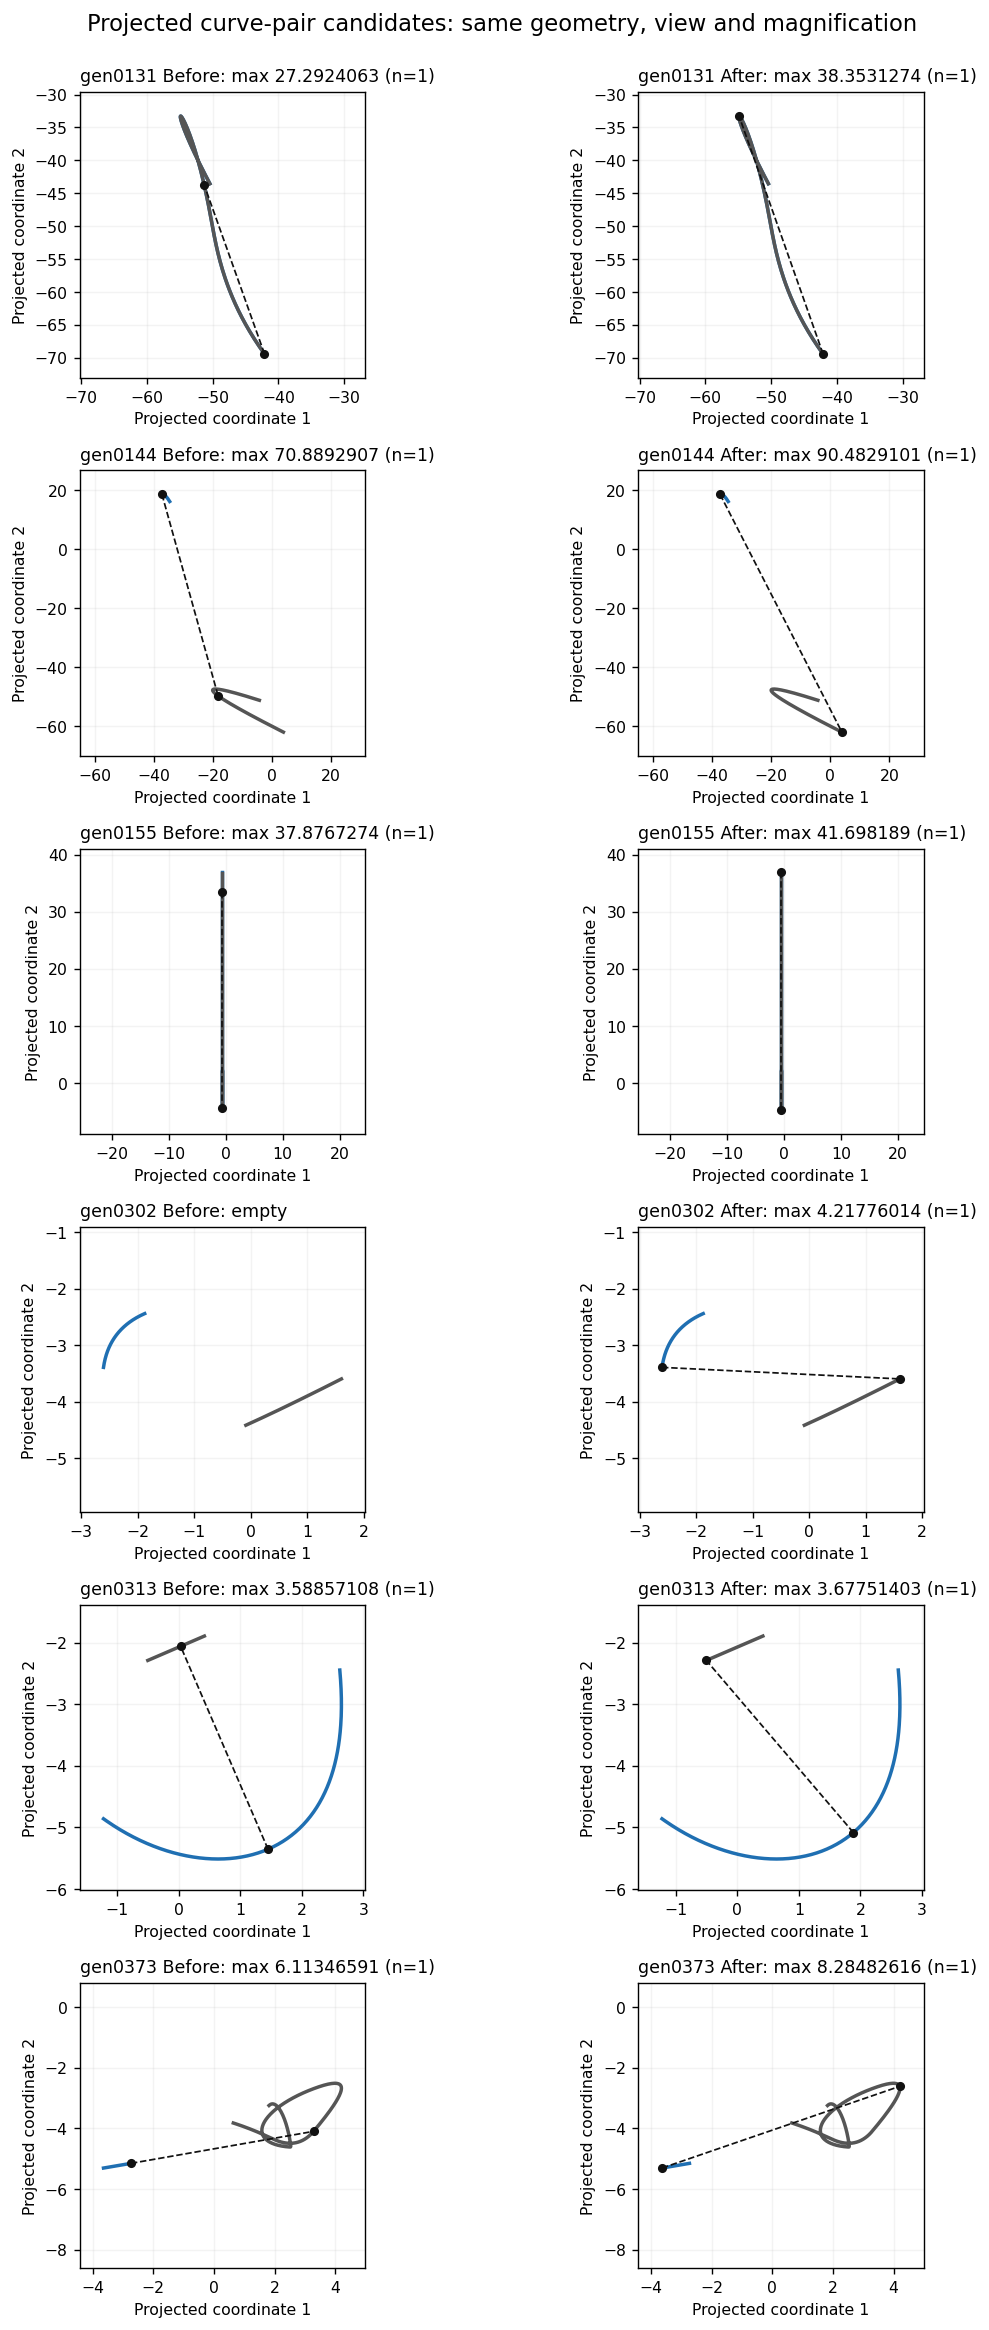
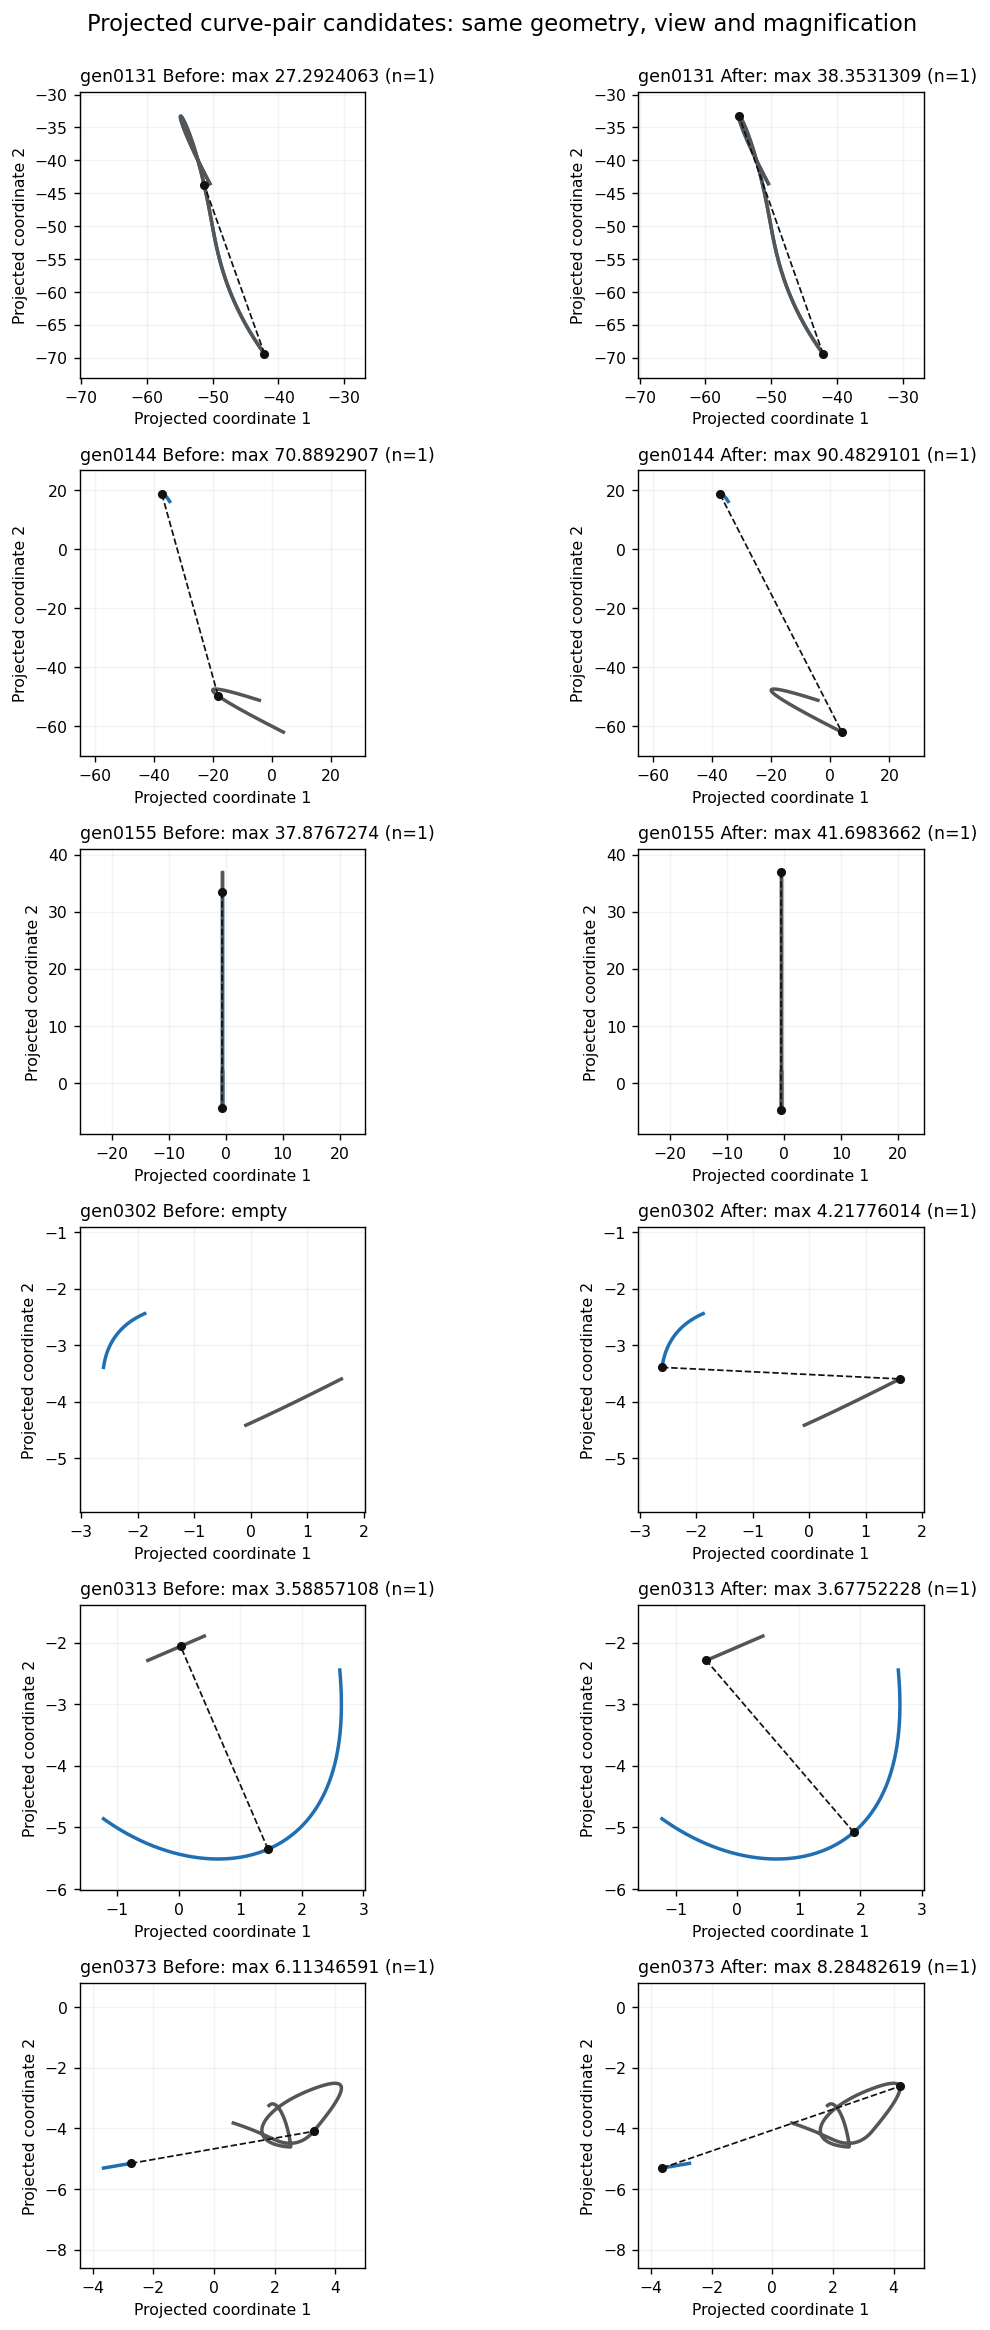
test: refresh strict projected pair audit and geometry evidence

diff --git a/plan/findings/diagnostics/check_projected_pair_rust_witnesses_3060.rs b/plan/findings/diagnostics/check_projected_pair_rust_witnesses_3060.rs
@@ -210,11 +210,30 @@ fn solve_case(row: &Value) -> Result<Value> {
         &opts,
         requested,
     ) {
-        Ok(solutions) => Ok(
-            json!({"case":row["case"],"solutions":solutions.as_slice().iter().map(|s|
-            json!({"parameters":[s.start.parameters[0],s.start.parameters[1]],"value":s.start.solution_value})
-        ).collect::<Vec<_>>()}),
-        ),
+        Ok(solutions) => {
+            let requested_domains = [interval(&i["ivl1"])?, interval(&i["ivl2"])?];
+            let natural = [a.natural_interval(), b.natural_interval()];
+            let domains = requested_domains
+                .into_iter()
+                .zip(natural)
+                .map(|(r, n)| [r.min().max(n.min()), r.max().min(n.max())])
+                .collect::<Vec<_>>();
+            let mut checked = Vec::new();
+            for solution in solutions.as_slice() {
+                let parameters = [solution.start.param(0)?, solution.start.param(1)?];
+                let delta =
+                    a.evaluate_point(&k, parameters[0])? - b.evaluate_point(&k, parameters[1])?;
+                let measured = normal[0].cross(delta).cross(normal[0]).length();
+                let admissible = parameters
+                    .iter()
+                    .zip(&domains)
+                    .all(|(p, d)| d[0] <= *p && *p <= d[1]);
+                checked.push(json!({"parameters":parameters,"value":solution.start.solution_value,
+                    "native_measured":measured,"scalar_error":measured-solution.start.solution_value,
+                    "admissible":admissible}));
+            }
+            Ok(json!({"case":row["case"],"admissible_domains":domains,"solutions":checked}))
+        }
         Err(error) => Ok(json!({"case":row["case"],"solver_error":format!("{error:?}")})),
     }
 }

diff --git a/plan/findings/curve.curve_p9--frozen-pair-audit-3060.md b/plan/findings/curve.curve_p9--frozen-pair-audit-3060.md
@@ -1,4 +1,4 @@
-# Frozen projected-pair audit at ab5107e26 and 8948e0bc2
+# Frozen projected-pair audit: strict Single construction at 46bd74511
 
 This record audits the scoped Single and finite affine All construction. It does not claim to close #3060. Baseline is the parent implementation; all inputs are frozen and replayed unchanged. No tolerance, expected output or exclusion is changed by this evidence commit.
 
@@ -6,44 +6,61 @@ This record audits the scoped Single and finite affine All construction. It does
 
 All 31 generated Single projected maximum requests among the 3,000 seeds, plus four cylinder fixtures, were replayed. There are 31 changed outputs, no new refusals and no decode errors. The three empty natural-domain intersections (gen2506, gen2915, gen2993) and the incumbent-filtered gen0717 remain unchanged. The OOB-enabled gen2915 result preserves existing cache-domain clipping; it does not certify extrapolation outside the natural interval.
 
-**Historical checkpoint, superseded for Single accuracy by 5c66fb436.** The tables
-and figures below preserve the ab5107/8948 audit for traceability; these Single
-outputs are not approved golden updates. A fresh strict-construction replay is
-pending. The independent All corner/monotonicity proofs are separate.
+The after data and figures now use the strict construction at `46bd74511`.
+The global objective upper bound fits the returned point's own independently
+computed arithmetic enclosure; its reported scalar lies inside that same
+interval. Caller retention slack and other point widths do not loosen this
+certificate. This follows the [maintainer contract](https://github.com/tangency-labs/solidcore/pull/2840#discussion_r4496188362).
 
-Every returned pair in this historical checkpoint is admissible, and independent native line/Hermite/homogeneous-rational evaluation agrees with the reported scalar within 7.11e-15. Independent grid/optimization search found no larger witness beyond caller slack; that search is a diagnostic, **not a completeness proof**. The old production invariant bounded the remaining geometric gap by retention slack; that does not meet the maintainer's solve-accuracy contract. Four cylinder maxima equal sqrt(2.5) and their returned parameters independently attain it.
+All returned parameters are admissible. Independent native line/Hermite/rational
+evaluation agrees with each reported scalar within 7.11e-15. Independent
+optimization's largest positive excess over an answer is 2.85e-14; those signed
+differences are shown below, not treated as an accuracy tolerance or proof.
+Completeness comes from the production interval invariant. Four cylinder maxima
+equal sqrt(2.5), independently attained by their returned endpoint parameters.
 
-Fourteen historical Single rows have independently found improvements inside caller slack. Those coarse candidates must not be blessed: retention slack does not authorize optimization error. The largest found gap is approximately 0.001340204 in gen1658, whose slack is 0.5. The strict correction removes slack from construction and requires the global bound to fit the returned point's own arithmetic enclosure, following the [maintainer contract](https://github.com/tangency-labs/solidcore/pull/2840#discussion_r4496188362).
+The superseded ab5107 Single checkpoint allowed geometric error inside retention
+slack and must not be blessed. In particular its gen1658 value 8.000523649275099
+is replaced by 8.001863852854438 at
+(0.36164915060065483, 0.06248865022830497). The independent witness is
+8.00186385285444, a difference of 1.78e-15, instead of the old 0.001340204 gap.
 
-| Case | Before values (status) | After values | Slack | Largest independently found improvement |
+The first strict checkpoint exposed 19 subdivision-depth refusals. Keeping
+proved endpoint contractions in the search state and allowing 128 total
+bisections for two coordinates removed all 19, without changing the strict
+acceptance rule or the 32,768-box work cap. All 31 focused tests pass at 46bd74511,
+including identical answers for zero and large retention on an interior peak.
+The later final-All retention guard has its own separate validation checkpoint.
+
+| Case | Before values (status) | Strict after values | Retention slack | Independent search minus answer |
 |---|---|---|---|---|
-| gen0131 | 27.292406300295426 ([0]) | 38.353127377015475 | 0.01 | 3.499643547e-06 |
+| gen0131 | 27.292406300295426 ([0]) | 38.353130876659016 | 0.01 | 7.1054e-15 |
 | gen0144 | 70.88929067495704 ([0]) | 90.48291006330427 | 0.5 | 0 |
-| gen0155 | 37.87672736773793 ([0]) | 41.698189029504405 | 0.01 | 0.000177133632 |
+| gen0155 | 37.87672736773793 ([0]) | 41.69836616313635 | 0.01 | 1.4211e-14 |
 | gen0302 | empty ([0]) | 4.217760138079574 | 0.0001 | 0 |
-| gen0313 | 3.5885710823184898 ([0]) | 3.677514032092783 | 0.001 | 8.248222469e-06 |
-| gen0373 | 6.113465906772089 ([0]) | 8.28482615770044 | 1e-06 | 3.31673693e-08 |
-| gen0421 | 17.11468532354081 ([0]) | 17.114615887656527 | 0.01 | 6.943588429e-05 |
+| gen0313 | 3.5885710823184898 ([0]) | 3.677522280315252 | 0.001 | -4.4409e-16 |
+| gen0373 | 6.113465906772089 ([0]) | 8.284826190867808 | 1e-06 | 1.7764e-15 |
+| gen0421 | 17.11468532354081 ([0]) | 17.11468532354081 | 0.01 | 3.5527e-15 |
 | gen0445 | 2.1774745915837537 ([0]) | 10.052741867014833 | 1e-06 | 0 |
-| gen0743 | 83.90388228273946 ([0]) | 87.12927007129669 | 0.0001 | 3.70933094e-07 |
+| gen0743 | 83.90388228273946 ([0]) | 87.12927044222975 | 0.0001 | 2.8422e-14 |
 | gen0844 | 0.0 ([0]) | 10.979584714079621 | 0.5 | 0 |
-| gen0880 | 10.50084800781891 ([0]) | 10.50084768493114 | 0.0001 | 3.228877699e-07 |
+| gen0880 | 10.50084800781891 ([0]) | 10.500848007818902 | 0.0001 | 7.1054e-15 |
 | gen1086 | 17.609097780432535 ([0]) | 73.99422438322947 | 0.01 | 0 |
-| gen1116 | 9.918860532286931 ([0]) | 10.39940044414268 | 0.0001 | 6.122036211e-11 |
-| gen1458 | 1.1799020931977433 ([0]) | 1.7703234057949422 | 0.5 | 9.969708975e-05 |
-| gen1658 | empty ([0]) | 8.000523649275099 | 0.5 | 0.001340203579 |
+| gen1116 | 9.918860532286931 ([0]) | 10.3994004442039 | 0.0001 | 0 |
+| gen1458 | 1.1799020931977433 ([0]) | 1.7704231028846957 | 0.5 | 4.4409e-16 |
+| gen1658 | empty ([0]) | 8.001863852854438 | 0.5 | 1.7764e-15 |
 | gen1744 | empty ([0]) | 9.878574576753216 | 0.5 | 0 |
 | gen2017 | 19.071210555301338 ([0]) | 21.504888840235413 | 0.5 | 0 |
-| gen2131 | 65.62255209558627 ([0]) | 94.33068553136792 | 1e-05 | 1.497642188e-08 |
+| gen2131 | 65.62255209558627 ([0]) | 94.33068554634433 | 1e-05 | 1.4211e-14 |
 | gen2189 | 0.09248840291760957 ([0]) | 4.5154998991468 | 0.0001 | 0 |
-| gen2325 | 0.8055899438915088 ([0]) | 0.9235167127270163 | 1e-05 | 1.380251979e-07 |
-| gen2440 | 2.44769534587924 ([0]) | 8.615017213813696 | 0.001 | 6.146905207e-11 |
-| gen2603 | empty ([0]) | 7.017259270988454 | 1e-05 | 4.864872718e-07 |
-| gen2768 | 6.160254511384329 ([0]) | 8.199193821009183 | 0.001 | 5.69599368e-06 |
+| gen2325 | 0.8055899438915088 ([0]) | 0.9235168507522138 | 1e-05 | 4.4409e-16 |
+| gen2440 | 2.44769534587924 ([0]) | 8.615017213875161 | 0.001 | 3.5527e-15 |
+| gen2603 | empty ([0]) | 7.017259757475725 | 1e-05 | 8.8818e-16 |
+| gen2768 | 6.160254511384329 ([0]) | 8.199199517002864 | 0.001 | 0 |
 | gen2771 | 12.110728525770247 ([0]) | 18.087676035977736 | 0.001 | 0 |
-| gen2962 | 82.52299106097162 ([0]) | 107.269468795851 | 0.01 | 1.303067592e-07 |
+| gen2962 | 82.52299106097162 ([0]) | 107.26946892615773 | 0.01 | 2.8422e-14 |
 | gen2969 | empty ([0]) | 55.95810876408308 | 1e-05 | 0 |
-| gen2976 | 5.583408252286654 ([0]) | 9.516387163386291 | 0.01 | 1.074340616e-11 |
+| gen2976 | 5.583408252286654 ([0]) | 9.516387163397034 | 0.01 | 0 |
 | analytic_face_cyl_x_6_15 | 0.5 (None) | 1.5811388300841898 | fixture | 0 |
 | analytic_face_cyl_x_7_15 | 0.5 (None) | 1.5811388300841898 | fixture | 0 |
 | analytic_face_halfcyl_x_6_15 | 0.5 (None) | 1.5811388300841898 | fixture | 0 |
@@ -71,8 +88,8 @@ The distinct offset-circle compatibility fixture remains unchanged: two seam par
 
 ## Integrated identical-monotone All case
 
-The final 75-row replay at `8948e0bc2` has eight changes and no new refusals or
-decode errors. The sole additional change is original All `gen1839`:
+The 75-row replay at `46bd74511` preserves the eight changes from `8948e0bc2` and has no new refusals or
+decode errors. The sole addition to the original affine class is original All `gen1839`:
 three old values at or below 4.243690092983992e-12 become one value
 4.408015599603469 at native parameters
 (0.43561427937496744, 0.03474215986040488).
@@ -82,7 +99,7 @@ coordinates monotone on the complete union span; increasing ordered parameter
 separation increases the projected distance, so the extreme feasible pair is
 global. The production interval sign proof agrees. This is the original All
 request, not a Single variant. The independent public-API test and unchanged
-offset-circle compatibility test pass among the 30 focused tests.
+offset-circle compatibility test pass among the 31 focused tests.
 
 The planned golden migration can remove the five repaired #3060 exclusions:
 gen0844, gen1839, gen2050, gen2187 and gen2585. gen0472 remains open in #3081.
@@ -91,7 +108,7 @@ migration; unchanged, unverified All outputs are not blessed.
 
 ## Same-view geometry
 
-The curves below are independently evaluated from the stored definitions. Each row uses identical projection, limits and magnification before/after. Dashed segments join the returned pairs; markers identify the endpoints. Curve sampling is for rendering only and is not a certificate. Titles show maximum reported value and answer count; exact complete values are in the tables/data above.
+The after views below use strict Single checkpoint 46bd74511 and the unchanged certified finite All outputs. The curves are independently evaluated from the stored definitions. Each row uses identical projection, limits and magnification before/after. Dashed segments join the returned pairs; markers identify the endpoints. Curve sampling is for rendering only and is not a certificate. Titles show maximum reported value and answer count; exact complete values are in the tables/data above.
 
 ![Before and after projected curve pairs, group 1.](figures/projected-pair-audit-3060-1.png)
 

diff --git a/plan/findings/curve.curve_p9--projected-pair-maximum-3060.md b/plan/findings/curve.curve_p9--projected-pair-maximum-3060.md
@@ -95,8 +95,11 @@ endpoint. Selection keeps that upper endpoint monotone, so later candidates
 continue to cover all previously discarded rectangles. No caller slack, another
 point's interval width, or geometric box width is added. Retention slack remains
 only in the outward-rounded incumbent cutoff. An unresolved rectangle exhausts
-the documented finite budget with an explicit refusal. This strict checkpoint
-requires a fresh cohort replay before any corrected Single goldens are accepted.
+the documented finite budget with an explicit refusal. The strict refinement at 46bd74511 passes all 31 focused tests and the frozen
+35-case replay with no new refusals. It keeps endpoint contractions in the
+search state and permits 128 total bisections for two coordinates, with the
+32,768-box work cap unchanged. The refreshed frozen audit contains the final
+strict values; the earlier coarse Single outputs are superseded.
 
 
 
